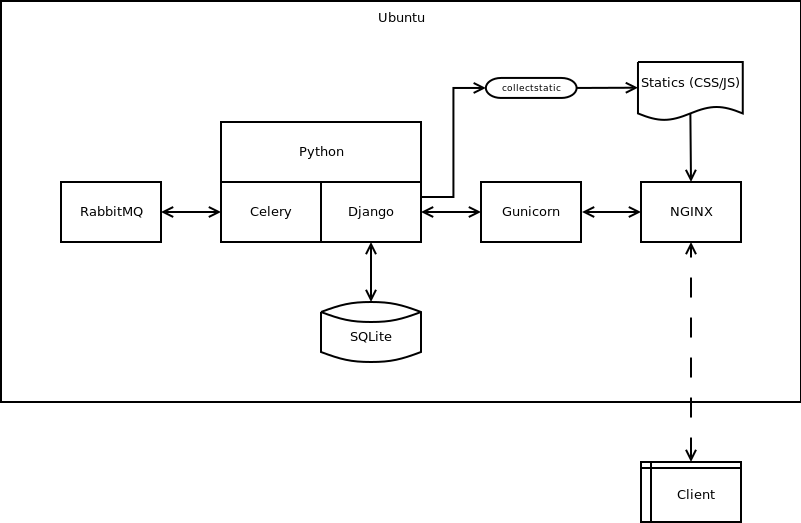
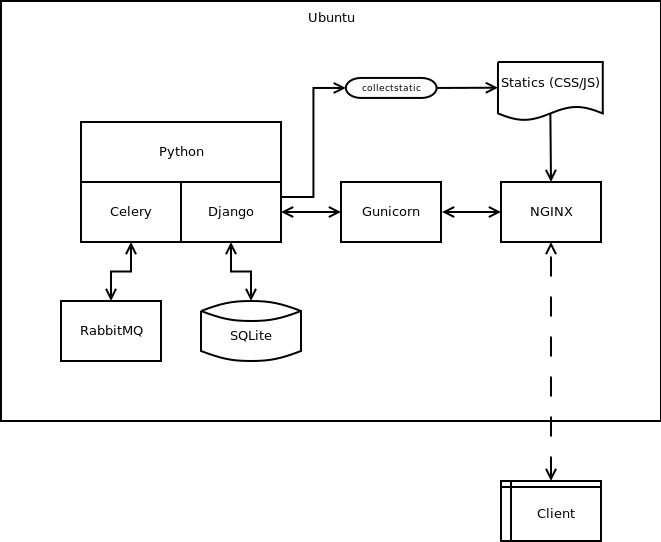
Added report.

diff --git a/report/report.md b/report/report.md
@@ -1,5 +1,9 @@
 # API and Database Models
 
+![./schema.png](schema.png)
+
+[./schema.dia](schema.dia)
+
 This airport application for incoming and outcoming flights from/to Schipol. The flights data is taken everyday at midnight from Schipol airport API. The API data provided from the Schipol API has rich variation keys, but their values in incomplete. Sometimes there are keys that just blank or null. Furthermore, there are little to no information on what each keys describes. Despite the two sole main issues, I chose to use this API because it is free and provides the most number of pulls out of other options there are available.
 
 The main models are the `ArrivalDepartureFlight` model, which then inherited further to `ArrivalFlight` and `DepartureFlight` models. Initially they have unique fields like destined/origin airport and scheduled time for arrival and departure. However, I realize that the API only provides data from the Schipol airport side. Which means one other airport is always Schipol and the API does not provide time for flight's operation with the other airport. So in then end both `ArrivalFlight` and `DepartureFlight` come from `ArrivalDepartureFlight` without any unique field, just each stored in different tables.
@@ -33,3 +37,19 @@ At this point, if data is not exist (deleted via admin control panel) it will re
 ![./structure.png](structure.png)
 
 [./structure.dia](structure.dia)
+
+The diagram shows all process and static files used to run this application.
+
+The main "protagonist" here is Django, the all-in-one, "batteries included" solution for full-stack web developer. Django basically provides all routings and simple interface to database (SQLite). Django also connected to Celery, which will be discussed in later paragraph, that is meant to manage task with respect to real-life timing (year, month, ...).
+
+Django has a `collectstatic` command to put every necessary static files to one folder for easier access for NGINX.
+
+Celery is a Python task scheduler, to execute Python function based on real-life time. To work, Celery needs a message broker and by default it sets to use RabbitMQ.
+
+Message broker is a process to translate message from one protocol to another. RabbitMQ here is used to get timing from the host OS task scheduler: like `cron` in UNIX or whatever it is in Windows. With connection to `cron` RabbitMQ can let Celery to have timings on when to execute tasks.
+
+For this application there are three tasks: to pull API, to check existing flight data, and to save database to fixtures (static JSON file). They are scheduled at daily, per-minute, and every ten minutes, respectively.
+
+Both NGINX and Gunicorn are a HTTP server that serve different purposes. NGINX is used to serve static files and to route interactive HTTP requests to Gunicorn. Gunicorn is used to handle dynamic HTTP request to a running Django process. Hence, some says, the whole process is faster, because one server is used to handle static files, whereas requests, which take longer to execute, will be handled with different server (Gunicorn).
+
+NGINX is the last process in the operating system before requests and responds go to the Internet.
